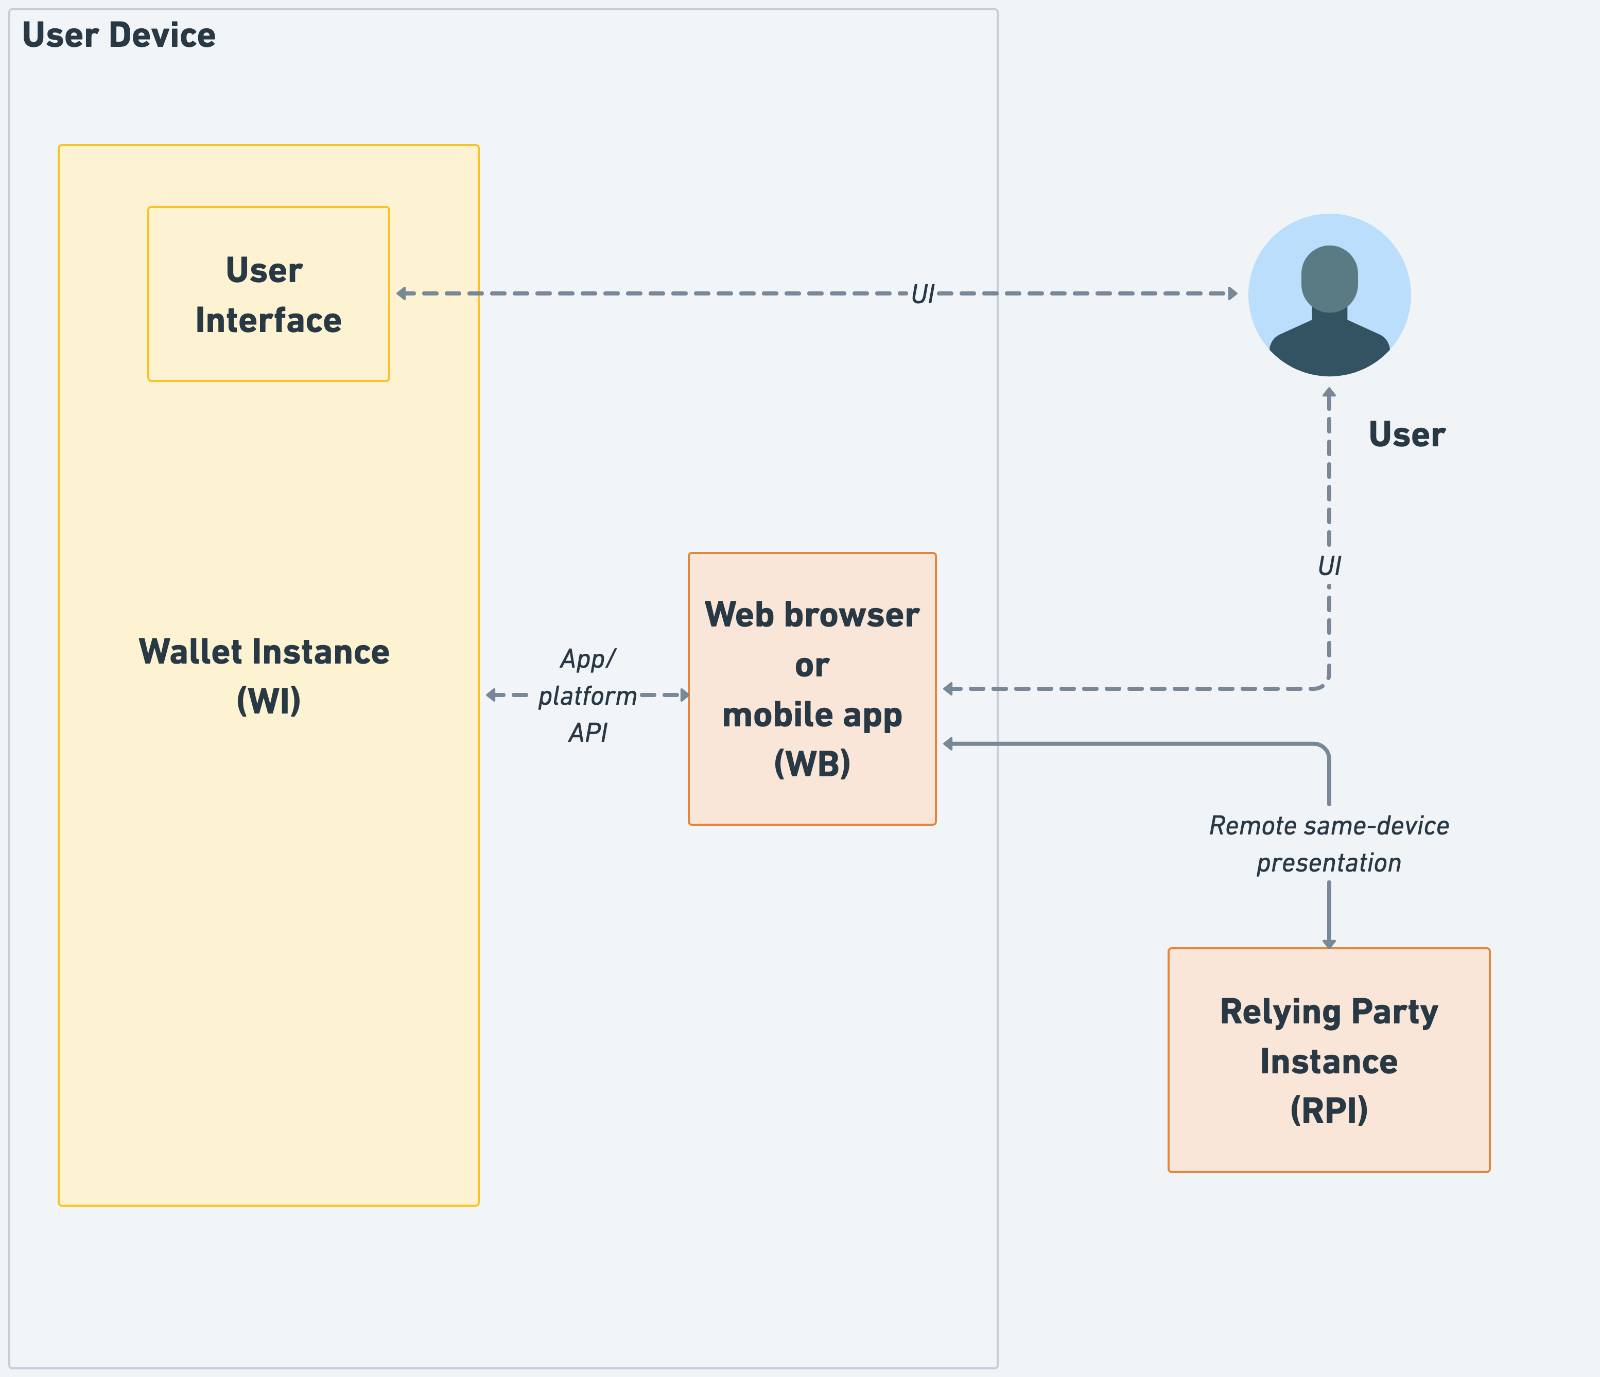
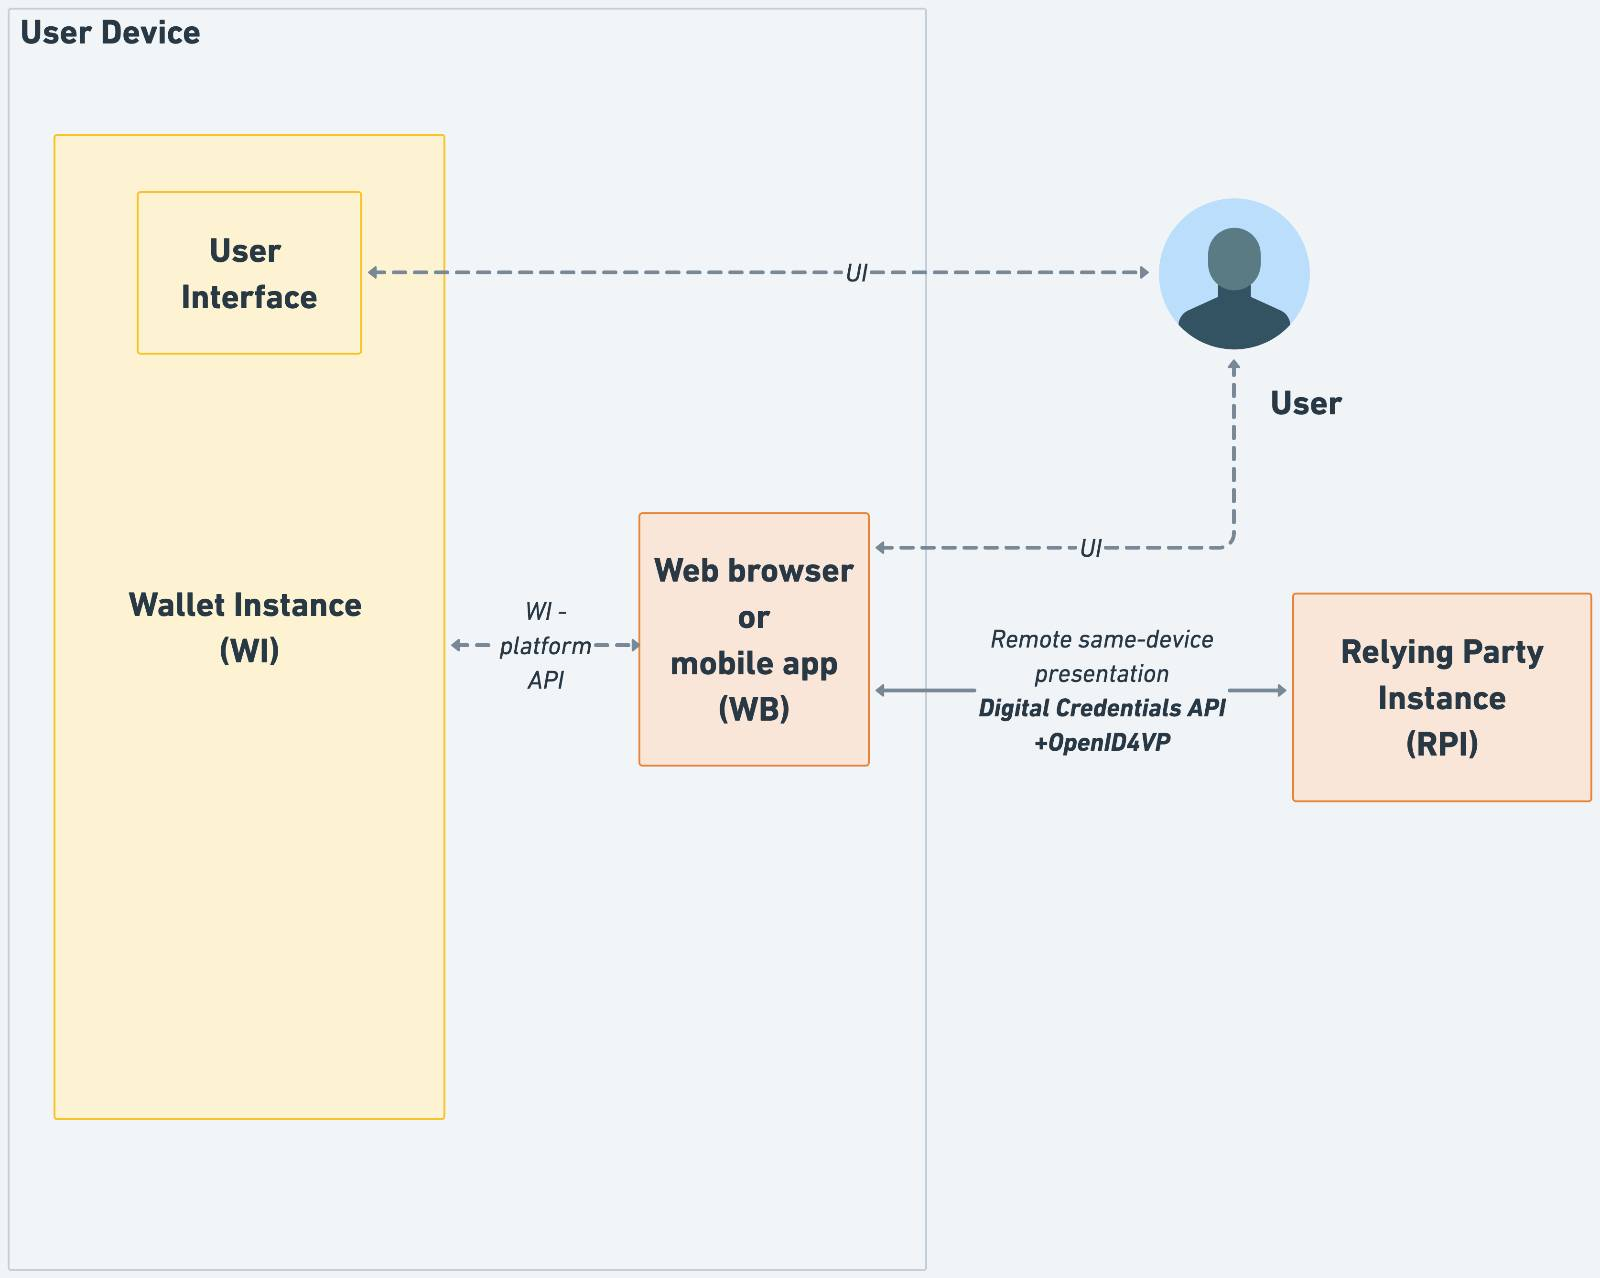
Updates for presentation flows
Updating Figures 3. 4 and 5, as well as textual descriptions of these flows.

diff --git a/docs/arf.md b/docs/arf.md
@@ -352,9 +352,11 @@ Figure 2 shows the following interfaces between components of a Wallet Unit, or 
 
 - The **User Interface (UI)** is the point of interaction and communication between the User and the Wallet Instance. This interface will not be standardized in the scope of the EUDI Wallet ecosystem.
 
-- The **Presentation Interface (PI)** enables Relying Parties to securely request and receive PIDs, QEAAs, PuB-EAAs and EAAs from Wallet Units. This interface accommodates both remote and proximity interactions. For remote presentation flows, as detailed in [Section 4.4.3](#443-enabling-and-securing-remote-presentation-flows), the Wallet Instance implements the OpenID for Verifiable Presentation protocol [OpenID4VP] in combination with the [W3C Digital Credentials API]. In contrast, for the proximity presentation flow, this interface adheres to the [ISO/IEC 18013-5] standard, see [Section 4.4.2](#442-proximity-presentation-flows).
+- The **Presentation Interface (PI)** enables Relying Parties to securely request and receive PIDs, QEAAs, PuB-EAAs and EAAs from Wallet Units. This interface accommodates both remote and proximity interactions. For remote presentation flows, as detailed in [Section 4.4.3](#443-remote-presentation-flows), the Wallet Instance implements the OpenID for Verifiable Presentation protocol [OpenID4VP] in combination with the [W3C Digital Credentials API]. In contrast, for the proximity presentation flow, this interface adheres to the [ISO/IEC 18013-5] standard, see [Section 4.4.2](#442-proximity-presentation-flows).
 
-- The **Secure Cryptographic Interface (SCI)** enables the Wallet Instance to communicate with the Wallet Secure Cryptographic Application (WSCA). This interface is specifically designed for managing cryptographic assets and executing cryptographic functions. In case the WSCA is delivered by the Wallet Provider, the Wallet Provider is responsible for both sides of this interface, and hence standardisation is not needed within the scope of the EUDI Wallet ecosystem. In case the WSCA is delivered by the provider of the WSCD, this interface will comply with an existing specification that is not specifically designed for the EUDI Wallet ecosystem. Rather, each type of WSCA/WSCD will expose a provider-defined interface to the Wallet Instance. To be able to support different types of WSCA/WSCD, Wallet Instances may therefore need to be able to handle multiple flavours of this interface.
+- The **Secure Cryptographic Interface (SCI)** enables the Wallet Instance to communicate with the Wallet Secure Cryptographic Application (WSCA). This interface is specifically designed for managing cryptographic assets and executing cryptographic functions. In case the WSCA is delivered by the Wallet Provider, the Wallet Provider is responsible for both sides of this interface, and hence standardisation is not needed within the scope of the EUDI Wallet ecosystem. In case the WSCA is delivered by the provider of the WSCD, this interface will comply with an existing specification that is not specifically designed for the EUDI Wallet ecosystem. Rather, each type of WSCA/WSCD will expose a provider-defined interface to the Wallet Instance. For example, in case the WSCD is a secure element, the [Implementing Act on Integrity and Core Functionality](https://eur-lex.europa.eu/legal-content/EN/TXT/HTML/?uri=OJ:L_202402979#anx_I) requires support for the GlobalPlatform [OMAPI] interface specification (or an equivalent one).
+  
+ To be able to support different types of WSCA/WSCD, Wallet Instances may need to be able to handle multiple flavours of this interface.
 
 - The **PID Issuance Interface (PII)** complies with the [OpenID4VCI] standard and is used when the Wallet Unit communicates with a PID Provider to request and receive PIDs to be stored within the Wallet Unit.
 
@@ -389,7 +391,7 @@ Figure 3 shows how attestation presentation works when the User and their Wallet
 
 The attribute presentation flow begins when the User opens the Wallet Instance and instructs it to  display a QR code or present an NFC tag. This QR code or NFC tag contains the information necessary to establish a NFC, BLE, or WiFi-Aware connection. The Relying Party Instance scans the QR code or the NFC tag and set ups the connection. The QR code or NFC tag also contains the information necessary to create an authenticated and encrypted secure channel between both parties.
 
-#### 4.4.3 Enabling and securing remote presentation flows
+#### 4.4.3 Remote presentation flows
 
 #### 4.4.3.1 Introduction
 Remote transaction flows are use cases in which the Relying Party Instance is remote from the User and the User device. The Relying Party Instance accesses the Wallet Instance over the internet, using a browser. These use cases can be further distinguished in same-device flows, in which the browser is running on the same device as the Wallet Unit, and cross-device flows, where the browser is on a different device.
@@ -397,8 +399,8 @@ Remote transaction flows are use cases in which the Relying Party Instance is re
 Remote presentation flows come with a number of challenges that are not present for proximity flows:
 
 1. Secure Cross-Device Flows: Cross-device flows are vulnerable to phishing and relay attacks, necessitating enhanced security measures. Implementing proximity checks managed by the mobile operating system can address these vulnerabilities, leveraging built-in security features to ensure interactions are both secure and reliable.
-2. Wallet Unit Selection and Invocation: Users face challenges in selecting and activating the appropriate Wallet Unit, especially when multiple Wallet Units are available on the User's device. A unified interface provided by the mobile operating system simplifies this process, ensuring a seamless and intuitive user experience.
-3. Fragmented Interaction Mechanisms: The challenge here is how to invoke the Wallet Unit ub order to set up a communication channel with the Relying Party Instance. One option that has been considered is the use of custom URI schemes. Such a URI may, for example, start with "mdoc://" or "openid4vp://". If such a scheme is used, the mobile operating system would invoke the Wallet Unit if the Relying Party asks it to connect to a custom URI. However, reliance on custom URL schemes in browsers and apps leads to inconsistent user experiences and operational inefficiencies, as well as security risks. Therefore, a browser API has been proposed to standardize the interaction mechanisms across platforms, which improves usability and scalability, delivering a more uniform and reliable user experience.
+2. Wallet Unit Selection and Invocation: Because remote flows do not start from the Wallet Unit, Users face challenges in selecting and activating the appropriate Wallet Unit to satisfy a particular presentation request, especially when multiple Wallet Units are available on the User's device. A unified interface provided by the mobile operating system simplifies this process, ensuring a seamless and intuitive user experience.
+3. Fragmented Interaction Mechanisms: The challenge here is how to invoke the Wallet Unit ub order to set up a communication channel with the remote Relying Party Instance. One option that has been considered is the use of custom URI schemes. Such a URI may, for example, start with "mdoc://" or "openid4vp://". If such a scheme is used, the mobile operating system would invoke the Wallet Unit if the Relying Party Instance asks it to connect to a custom URI. However, reliance on custom URL schemes leads to inconsistent user experiences, depending on the browser or OS used. It also leads to operational inefficiencies and security risks. Therefore, a browser API has been proposed to standardize the interaction mechanisms across platforms. This improves usability and scalability and ensures a more uniform and reliable user experience.
 4. Clear Origin Verification: Protecting against relay attacks requires precise identification of the Relying Party Instance's origin. Including the origin information, such as the website domain or app package name, within the presentation request ensures the authenticity of the request and enhances trust for both Wallet Units and Users.
 
 The next sections describe how these challenges are solved for both same-device and cross-device remote presentation flows.
@@ -412,18 +414,31 @@ Figure 4 shows attribute presentation in a remote same-device flow.
 Compared to Figure 2, Figure 4 shows additional detail. In particular, it shows the browser  on the User device and the relevant interfaces of this browser:
 
 + The **Remote same-device presentation** interface in the interface between the browser and a remote Relying Party Instance, which may be running on a webserver operated by the Relying Party. This interface complies with the Digital Credentials API, which is a browser API that is currently being standardized within W3C. An OpenID4VP-based protocol (i.e., messages and message contents) to be used over the Digital Credentials API is currently being standardized within the OpenIDFoundation.
-+ The **WI-platform API** interface is an inter-app API offered by the OS to give browsers and other apps on the User device access to the Wallet Unit. On the protocol level, this interface uses the same OpenIDVP-based messages and messages contents as the 'Remote same-device presentation' interface described above. There are however no current plans to standardize this interface on the level of the API calls. These calls will be specified in the developer documentation for the respective OS. One of the key elements of this API is that Wallet Unit receives reliable information regarding the origin of the presentation request.
++ The **WI-platform API** interface is an inter-app API offered by the OS to give browsers and other apps on the User device access to the Wallet Unit. On the protocol level, this interface uses the same OpenIDVP-compliant messages as the 'Remote same-device presentation' interface described above. There are however no current plans to standardize this interface on the level of the API calls. These calls will be specified in the developer documentation for the respective OS. One of the key elements of this API is that Wallet Unit receives reliable information regarding the origin of the presentation request.
 + Obviously, the browser also has a User interface allowing the User to interact with it. This interface will not be standardised in the context of the EUDI Wallet ecosystem.
   
-A remote same-device attribute presentation flow begins when the User uses the browser on their User device to visit the website of the Relying Party. The website may offer the User the possibility to present attributes from their Wallet Unit, for example by clicking a button. If the User does so, the browser will ask the User for permission to connect to the Wallet Unit. If the User allows this, the Relying Party Instance sends a presentation request to the browser over the Digital Credentials API. The browser, in collaboration with the device OS, forwards this request to the Wallet Unit, using the WI-platform API described above. If there are multiple Wallet Units present on the User device, the browser and the device OS will determine to which of these the request will be forwarded, possibly after consulting the User. The Wallet Instance will process the presentation request and, after requesting approval from the User, will return the requested attributes in encrypted format to the browser. The browser will forward the response to the remote Relying Party Instance.
+A remote same-device attribute presentation flow begins when the User uses the browser on their User device to visit the website of the Relying Party. The website may offer the User the possibility to present attributes from their Wallet Unit, for example by clicking a button. If the User does so, the browser will ask the User for permission to connect to the Wallet Unit. If the User allows this, the Relying Party Instance sends an OpenID4VP-compliant presentation request to the browser over the Digital Credentials API. The browser, in collaboration with the device OS, forwards this request to the Wallet Unit, using the WI-platform API described above. If there are multiple Wallet Units present on the User device, the browser and the device OS will determine to which of these the request will be forwarded, possibly after consulting the User. The Wallet Instance will process the presentation request and, after requesting approval from the User, will return the requested attributes in encrypted format to the browser. The browser will forward the response to the remote Relying Party Instance.
 
-Figure 4 also shows an inter-app attribute presentation flow. In such a flow, a mobile app on the User device, for example a banking app or shopping app, acts as the Relying Party Instance. The mobile app may use the User attributes received from the Wallet Unit for instance to authenticate the User or to fill out User data, such as name and address, automatically. 
+Figure 4 also shows an inter-app attribute presentation flow. In such a flow, a mobile app on the User device, for example a banking app or shopping app, acts as the Relying Party Instance. The mobile app may use the User attributes received from the Wallet Unit for instance to authenticate the User or to fill out User data, such as name and address, automatically.
 
-In such a use case, the attribute presentation flow begins when the User opens the mobile app and instructs it to request attributes from the Wallet Unit over the WI-platform API. Note that this is the same API that is also used by a browser in remote same-device presentation flows. The only difference is that the mobile app consumes the requested data itself, and does not forward the response to a remote Relying Party Instance.
+In such a use case, the attribute presentation flow begins when the User opens the mobile app and instructs it to request attributes from the Wallet Unit over the WI-platform API. Note that this is the same API that is also used by a browser in remote same-device presentation flows. The only difference may be that the origin information in the presentation request, if present, is different. The mobile app consumes the attributes it receives itself, and does not forward the presentation response to a remote Relying Party Instance.
 
 #### 4.4.3.3 Cross-device remote presentation flows
 
+Figure 5 shows attribute presentation in a remote cross-device flow.
 
+![Figure 5: Cross-device remote presentations](media/Figure_5_Remote_Cross-Device_Flow.jpeg) <!-- <img src="Figure_4_Remote_Cross-Device_Flow.jpeg" style="width="6.195290901137358in" height="6.5597200349956255in" /> -->
+
+A remote cross-device attribute presentation flow begins when the User uses a browser on a device different from their User device to visit the website of the Relying Party. The website may offer the User the possibility to present attributes from their Wallet Unit, for example by clicking a button. If the User does so, the browser will ask the User for permission to connect to the Wallet Unit. If the User allows this, the Relying Party Instance sends a presentation request to the browser over the Digital Credentials API. The browser then establishes a tunnel towards the User device, using the FIDO CTAP 2.2 hybrid flow, see section 11.5 of [CTAP]. Note that this flow is also used for FIDO Passkeys. This is done as follows:
+
+ 1. The browser presents a QR code which includes information about the tunnel endpoint and keys that will be used for establishing a secure session.
+ 2. The user scans the QR code using the camera on the User device.
+ 3. The User device emits a BLE advertisement, which is received by the browser. The advertisement includes, in an encrypted form, information required for establishing the secure tunnel. This advertisement is used as a proximity check: the tunnel cannot be established if the User device and the device on which the browser runs are not close to each other. 
+ 4. A tunnel is established between the two devices.
+  
+The browser then sends the OpenID4VP-compliant presentation request to the User device. If there are multiple Wallet Units present on the User device, the device OS will determine to which of these the request will be forwarded, possibly after consulting the User. The Wallet Instance will process the presentation request and, after requesting approval from the User, will return the requested attributes in encrypted format to the browser. The browser will forward the response to the remote Relying Party Instance.
+
+Note that the Wallet Instance does not see any difference between the cross-device flow and same-device flow. In both cases, it receives an OpenID4VP-compliant presentation request over the WI-platform API described in the previous section.
 
 ### 4.5 WSCD architecture types
 
@@ -1470,10 +1485,12 @@ For undated references, the latest version available applies.
 | [RFC 8610] | [RFC 8610](https://datatracker.ietf.org/doc/html/rfc8610) - Concise Data Definition Language (CDDL): A Notational Convention to Express Concise Binary Object Representation (CBOR) and JSON Data Structures, H. Birkholz et al., June 2019 | 
 | [RFC 8943] | [RFC 8943](https://datatracker.ietf.org/doc/html/rfc8943) - Concise Binary Object Representation (CBOR) Tags for Date, M. Jones et al., November 2020 | 
 | [RFC 8949] | [RFC 8949](https://datatracker.ietf.org/doc/html/rfc8949) - Concise Binary Object Representation (CBOR), C. Bormann et al., December 2020 | 
+| [OMAPI] | GPD_SPE_075 Open Mobile API Specification, v3.3, 2018-08, GlobalPlatform  |
 | [W3C VCDM v1.1] | Sporny, M., Longley, D. and D. Chadwick, "[Verifiable Credentials Data Model 1.1](https://www.w3.org/TR/vc-data-model/)", W3C Recommendation, 03 March 2022 | 
 | [W3C VCDM v2.0] | Sporny, M. *et al,* "[Verifiable Credentials Data Model v2.0](https://www.w3.org/TR/vc-data-model-2.0/)", W3C Candidate Recommendations Draft, 16 April 2024 |
-| [W3C Digital Credentials API] | Caceres, M., Cappalli, T., Goto, S. *et al,* "[Digital Credentials API](https://wicg.github.io/digital-credentials/)", TBD | 
-| [W3C WebAuthn] | [Web Authentication](https://www.w3.org/TR/2021/REC-webauthn-2-20210408/)", An API for accessing Public Key Credentials Level 2, W3C Recommendation, 8 April 2021 | 
+| [W3C Digital Credentials API] | Caceres, M., Cappalli, T., Goto, S. *et al,* "[Digital Credentials API](https://wicg.github.io/digital-credentials/)" | 
+| [W3C WebAuthn] | [Web Authentication](https://www.w3.org/TR/2021/REC-webauthn-2-20210408/), An API for accessing Public Key Credentials Level 2, W3C Recommendation, 8 April 2021 |
+| [CTAP] | Client to Authenticator Protocol (CTAP) Review Draft, March 21, 2023. Available:  <https://fidoalliance.org/specs/fido-v2.2-rd-20230321/fido-client-to-authenticator-protocol-v2.2-rd-20230321.html> |
 | [OpenID4VCI]| Lodderstedt, T. et al., "OpenID for Verifiable Credential Issuance", OpenID Foundation. Available: <https://openid.net/specs/openid-4-verifiable-credential-issuance-1_0.html> | 
 | [OpenID4VP] | Terbu O. et al., "OpenID Connect for Verifiable Presentations", OpenID Foundation. Available: <https://openid.net/specs/openid-4-verifiable-presentations-1_0.html> 
 | [OpenID4VP profile for the W3C Digital Credentials API] | TBD, "OpenID Connect for Verifiable Presentations", OpenID Foundation. Available: <https://openid.net/specs/openid-4-verifiable-presentations-1_0.html> |
